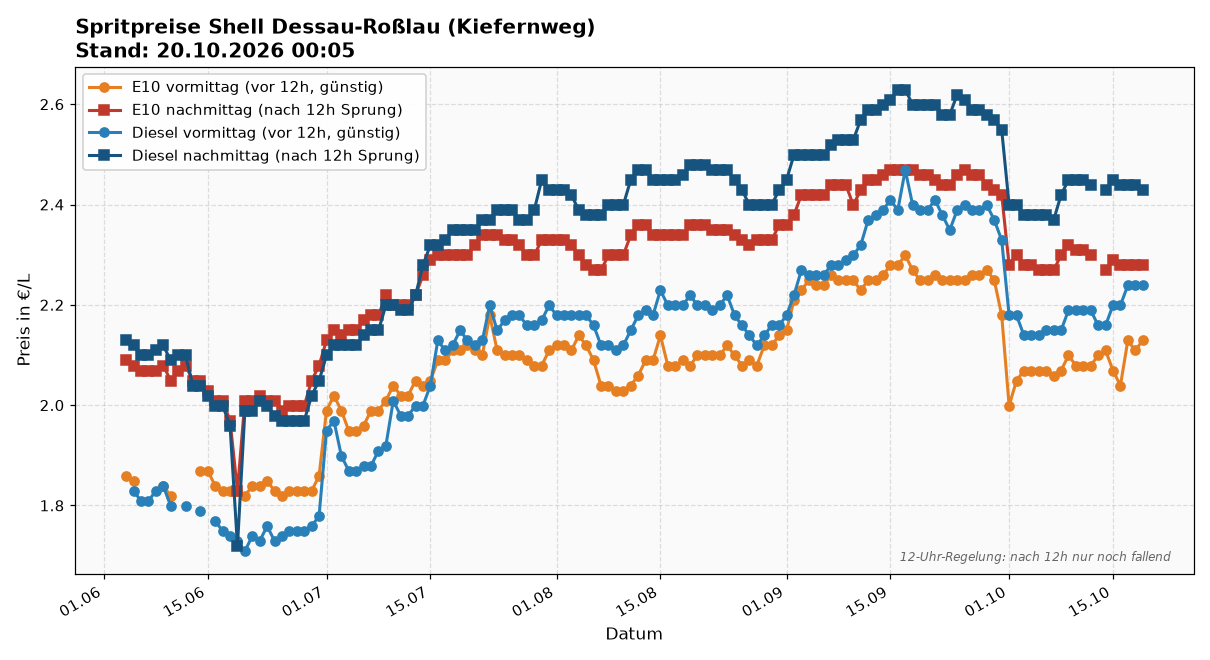
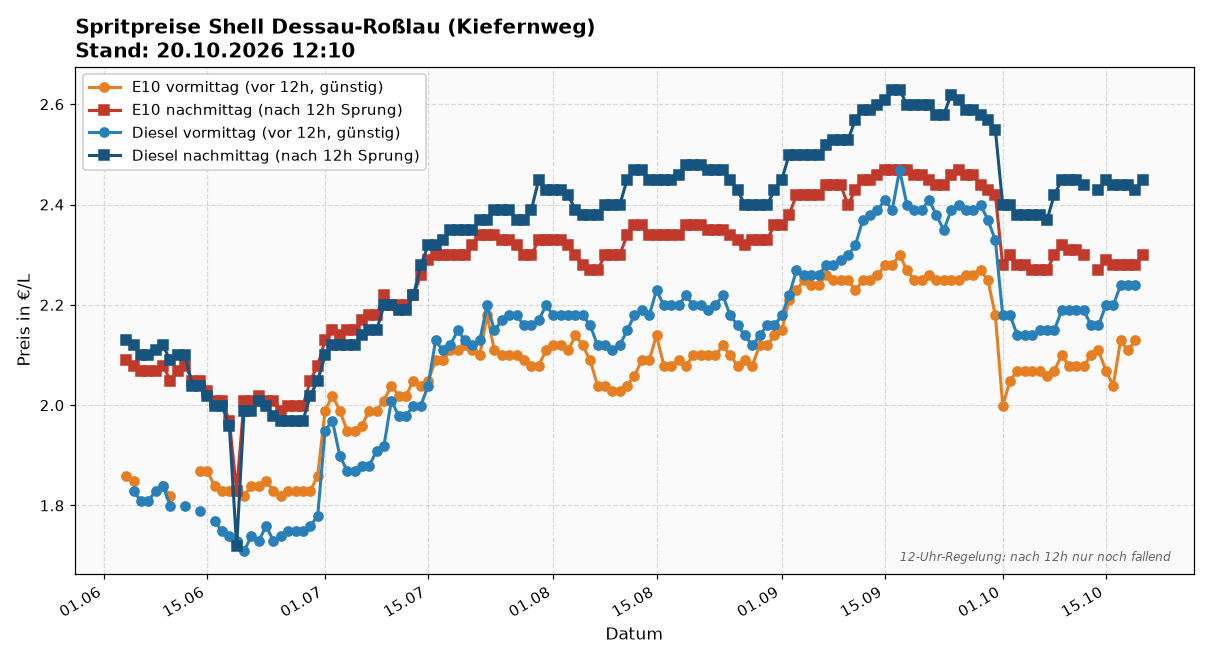
update: spritpreise 2026-10-20 12:10

diff --git a/index.html b/index.html
@@ -19,18 +19,18 @@
 </head>
 <body>
 <h1>🛢 Spritpreise Shell Dessau-Roßlau (Kiefernweg)</h1>
-<div class="sub">Source: Tankerkönig · Stand: 20.10.2026 00:05</div>
+<div class="sub">Source: Tankerkönig · Stand: 20.10.2026 12:10</div>
 
 <img src="latest.png" alt="Preisverlauf">
 
 <div class="latest">
   <strong>Heute (2026-10-20)</strong>
-  <div style="color:#888;font-style:italic;margin-bottom:0.5em;">Noch keine Messung heute — cron läuft 09:00 + 12:10.</div>
+  
   <table>
     <tr><td>E10 vormittag</td><td class="price">— €</td></tr>
-    <tr><td>E10 nachmittag</td><td class="price">— €</td></tr>
+    <tr><td>E10 nachmittag</td><td class="price">2.299 €</td></tr>
     <tr><td>Diesel vormittag</td><td class="price">— €</td></tr>
-    <tr><td>Diesel nachmittag</td><td class="price">— €</td></tr>
+    <tr><td>Diesel nachmittag</td><td class="price">2.449 €</td></tr>
   </table>
 </div>
 
